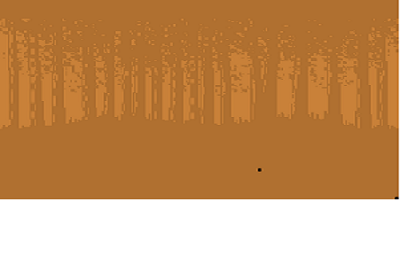
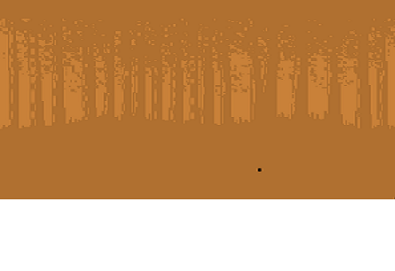
abit change

diff --git a/GraphicHandler.cpp b/GraphicHandler.cpp
@@ -35,8 +35,8 @@ void GraphicHandler::initialize() {
 	d3dPP.SwapEffect = D3DSWAPEFFECT_DISCARD;
 	d3dPP.BackBufferFormat = D3DFMT_X8R8G8B8;
 	d3dPP.BackBufferCount = 1;
-	d3dPP.BackBufferWidth = 800;
-	d3dPP.BackBufferHeight = 600;
+	d3dPP.BackBufferWidth = 550;
+	d3dPP.BackBufferHeight = 550;
 	d3dPP.hDeviceWindow = GameWindow::getInstance()->g_hWnd;
 
 	this->hr = direct3D9->CreateDevice(D3DADAPTER_DEFAULT, D3DDEVTYPE_HAL, GameWindow::getInstance()->g_hWnd, D3DCREATE_SOFTWARE_VERTEXPROCESSING, &d3dPP, &d3dDevice);

diff --git a/GameWindow.cpp b/GameWindow.cpp
@@ -83,7 +83,7 @@ int GameWindow::createWindow() {
 		Create the Window.
 	*/
 	//	You are to refer to MSDN for each of the parameters details.
-	g_hWnd = CreateWindowEx(0, wndClass.lpszClassName, "My Window's Name", WS_OVERLAPPEDWINDOW, 300, 300, 800, 600, NULL, NULL, hInstance, NULL);
+	g_hWnd = CreateWindowEx(0, wndClass.lpszClassName, "My Window's Name", WS_OVERLAPPEDWINDOW, 300, 300, 550, 550, NULL, NULL, hInstance, NULL);
 	ShowWindow(g_hWnd, 1);
 
 	return 0;

diff --git a/Background.cpp b/Background.cpp
@@ -29,7 +29,7 @@ Background::Background()
 	animationFrame = 0;
 
 
-	float x = 0, y=100;
+	float x = 0, y=150;
 	for (int r = 0; r < 2; r++)
 	{
 
@@ -38,7 +38,7 @@ Background::Background()
 			drawPosition[r][c] = { x,y,0 };
 		}
 
-		x = 401;
+		x = 0;
 	}
 	x = NULL;
 	y = NULL;
@@ -55,7 +55,7 @@ void Background::update()
 	{
 		for (int y = 0; y < 4; y++)
 		{
-			drawPosition[x][y].x -= y + 1;
+			drawPosition[x][y].x -= y + 0.5;
 		}
 	}
 

diff --git a/Background.h b/Background.h
@@ -27,7 +27,7 @@ private:
 
 public:
 	Background();	
-	D3DXVECTOR3 drawPosition[2][4];
+	D3DXVECTOR3 drawPosition[2][5];
 
 	static Background* getInstance();
 	static void releaseInstance();
